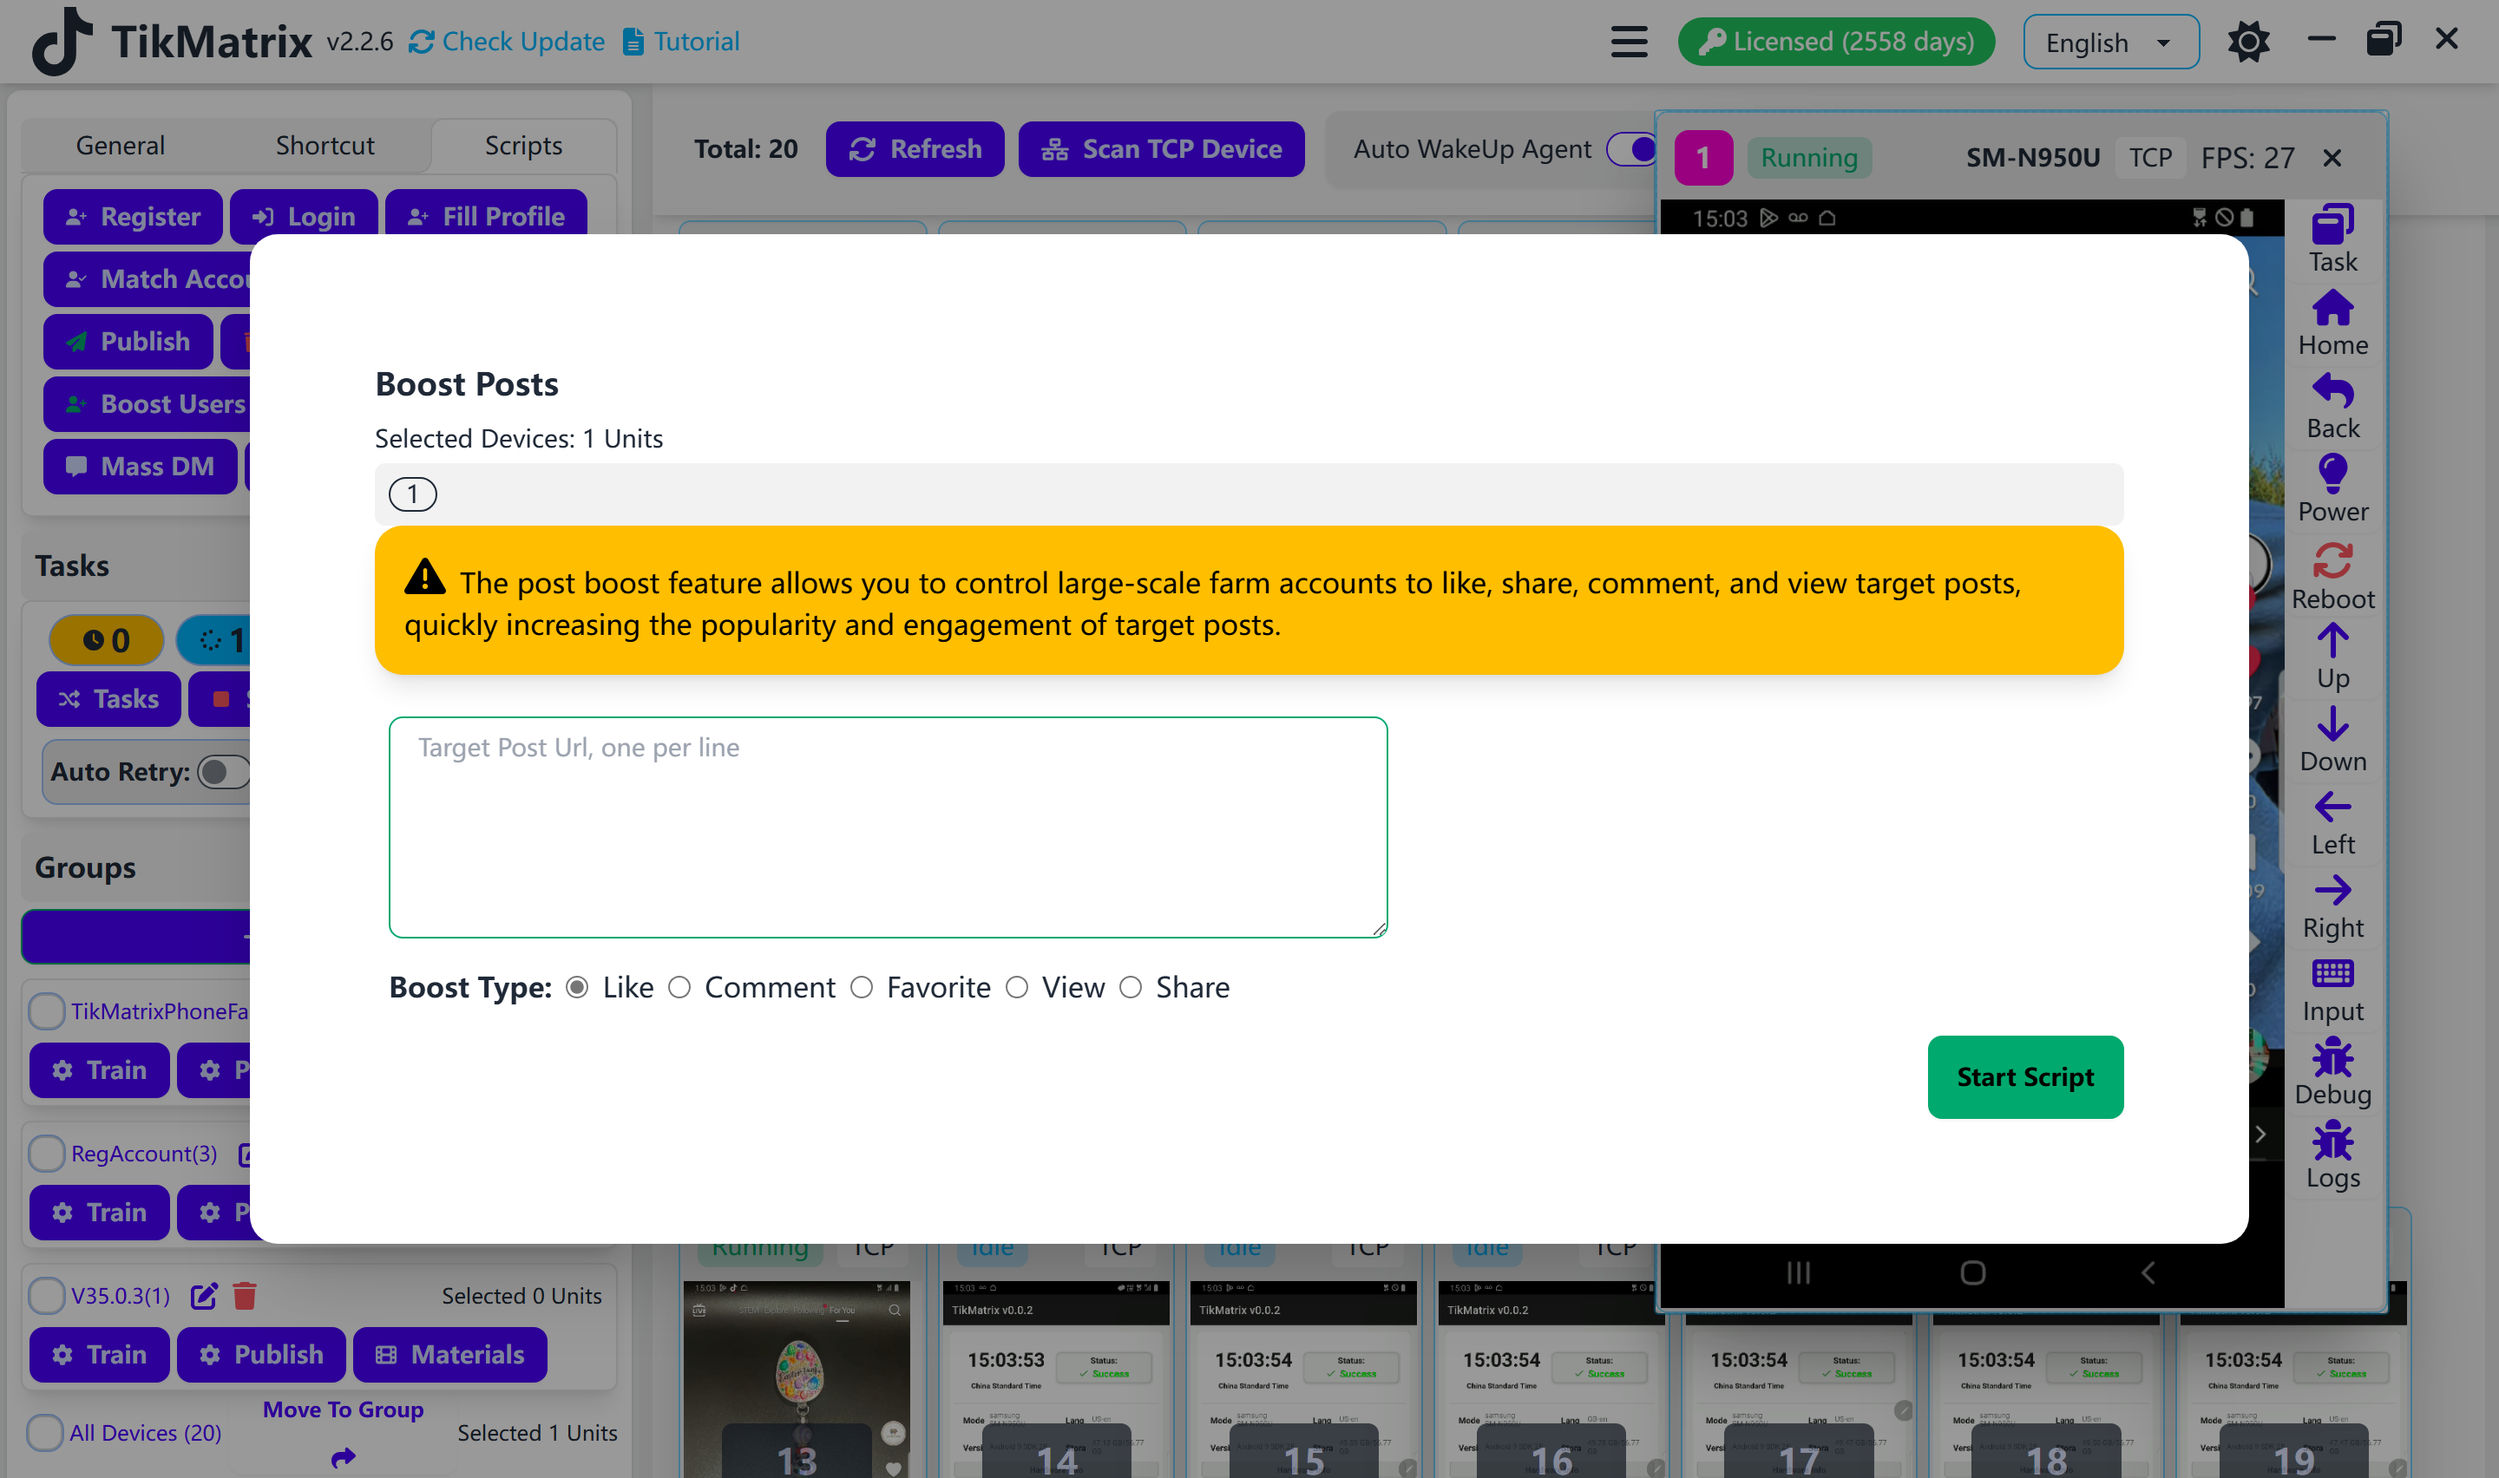
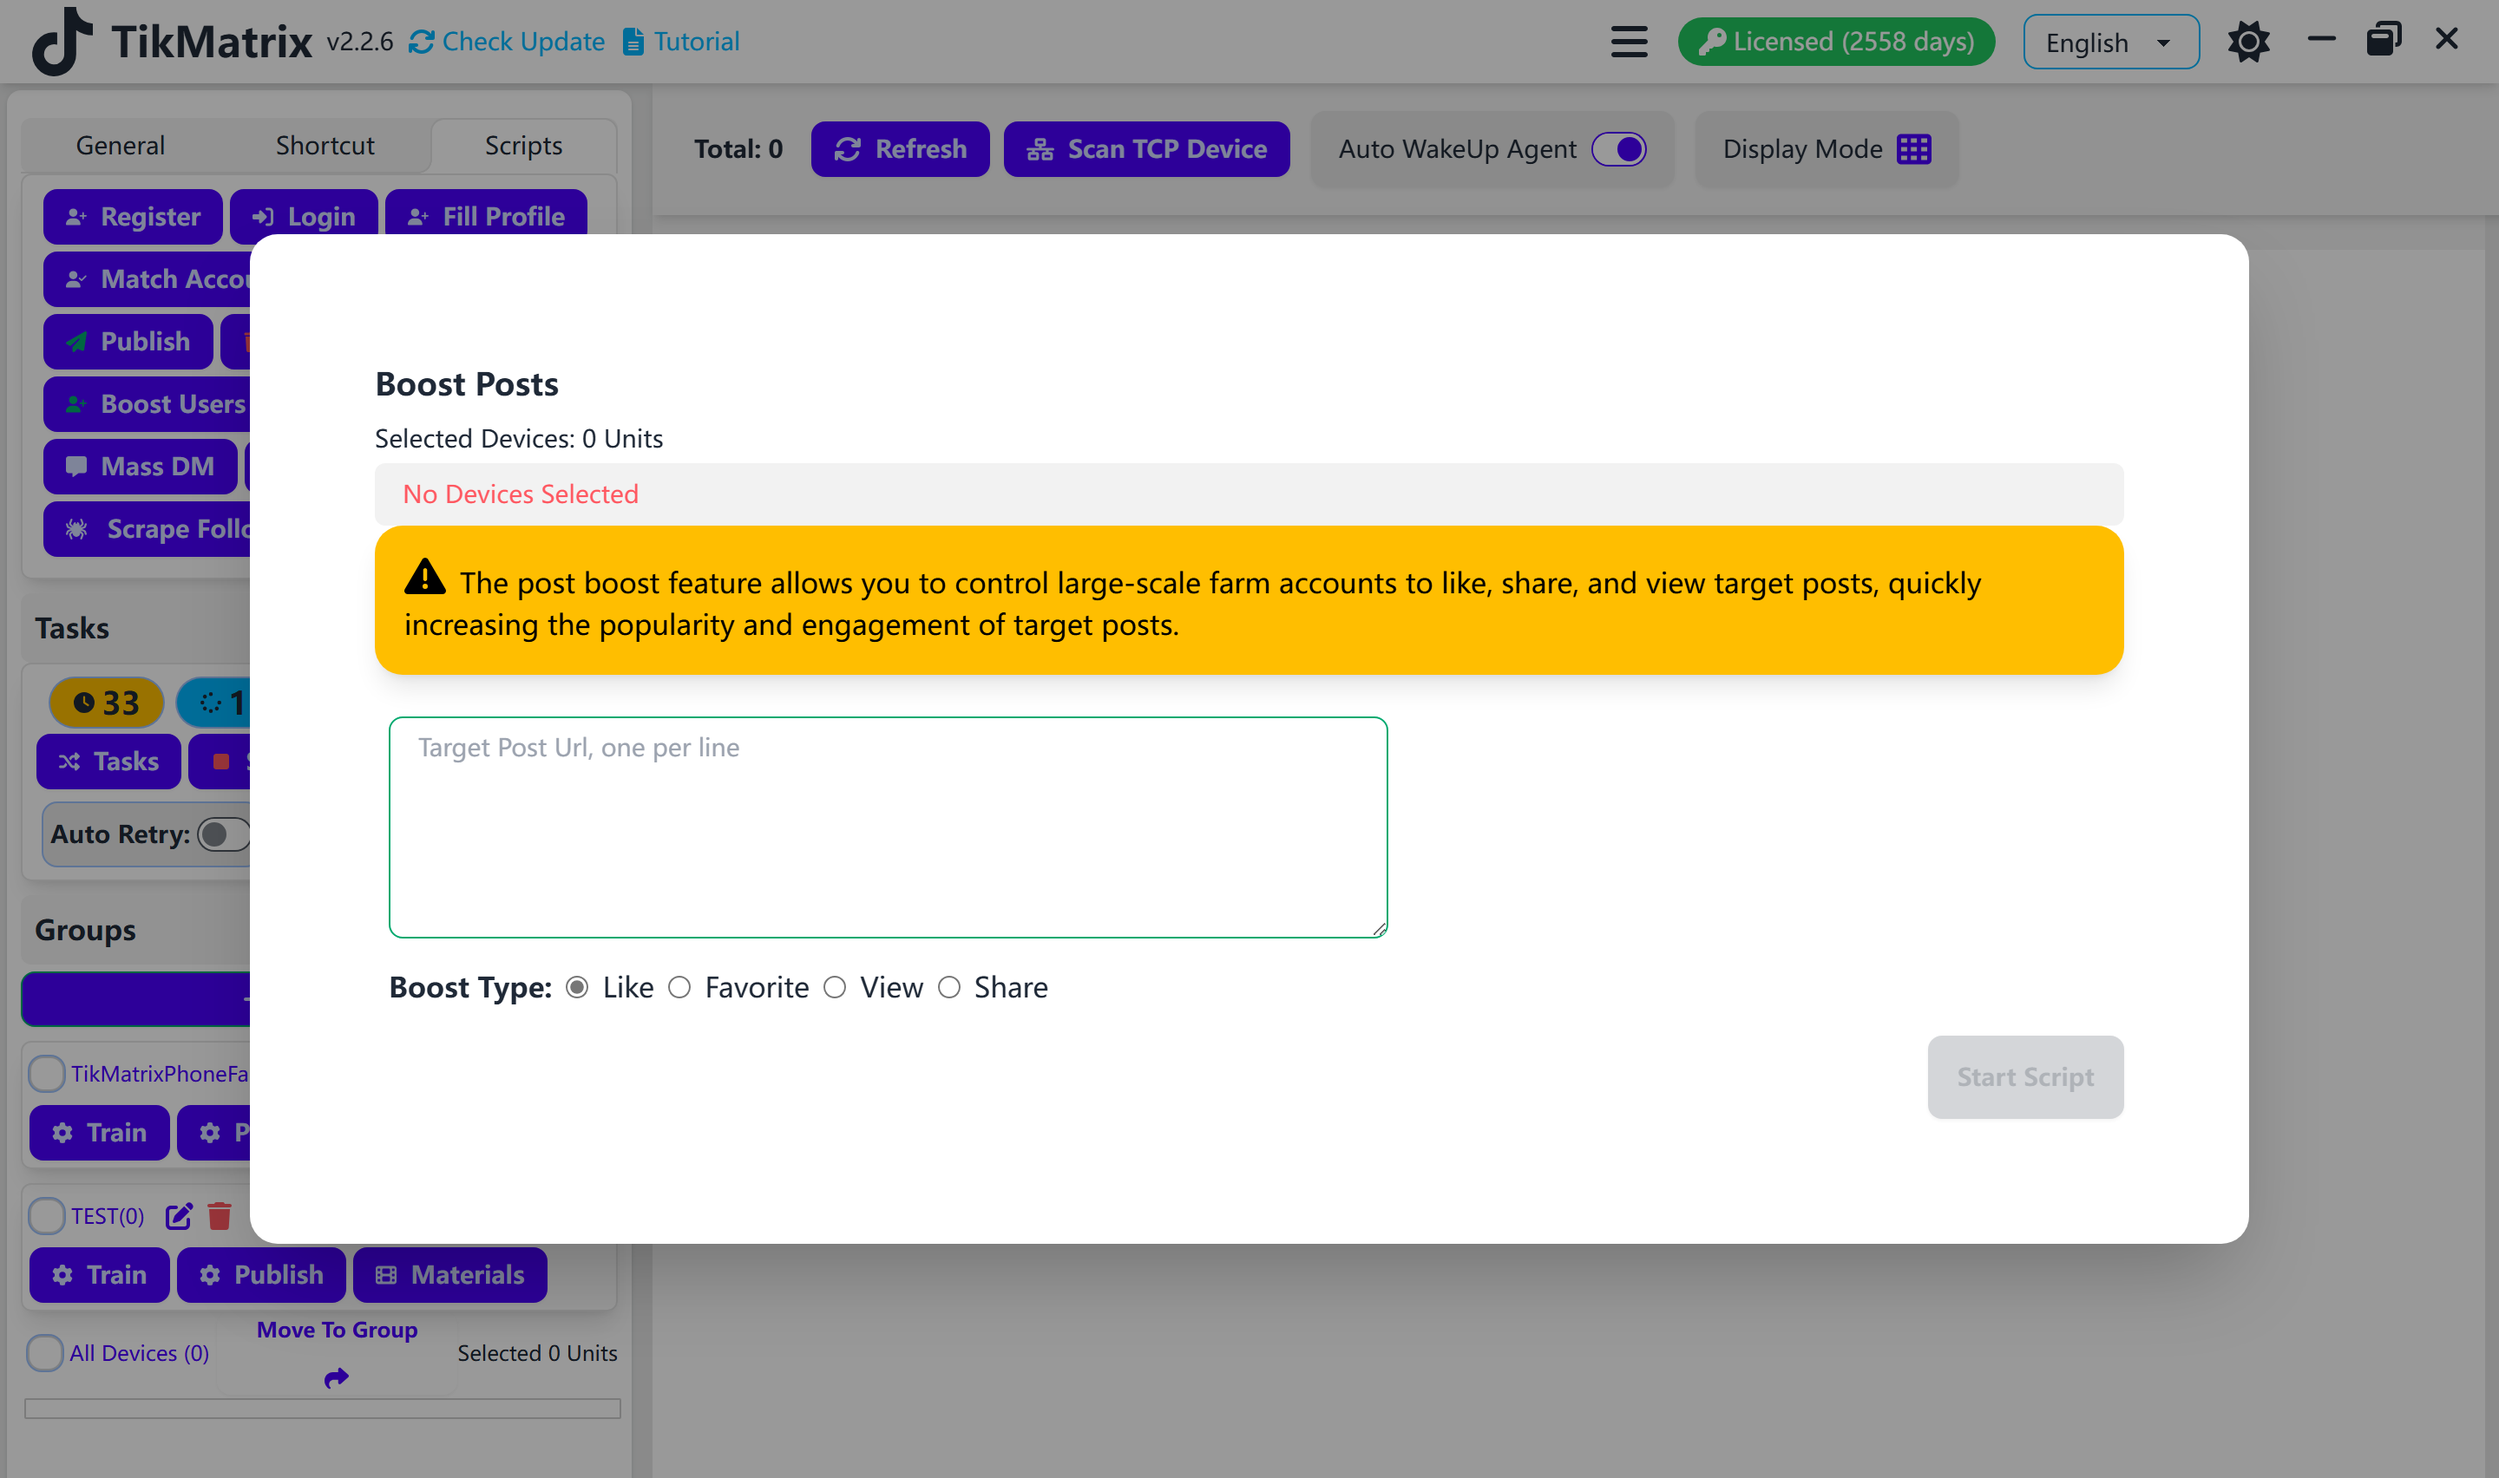
Remove Batch DM documentation and image, and update Boost Posts documentation to reflect changes in functionality.

diff --git a/docs/tutorial-scripts/9.mass-dm.md b/docs/tutorial-scripts/9.mass-dm.md
@@ -2,15 +2,15 @@
 sidebar_position: 9
 ---
 
-# Batch DM
+# Mass DM
 
-Batch DM script is used to send messages to multiple accounts.
+Mass DM script is used to send messages to multiple accounts.
 
 ## Steps
 
 1. Make sure the accounts are added to the account list.
 2. Make sure the group is created and the device is moved to the group.
-3. Click the `Script` - `Batch DM` button.
+3. Click the `Script` - `Mass DM` button.
 4. Enter the message content.
 5. Select the target accounts file, one account per line.
 6. Select the device to send messages.
@@ -18,8 +18,8 @@ Batch DM script is used to send messages to multiple accounts.
 
 ## Note
 
-* The batch DM script is not 100% successful, you may need retry the failed tasks.
+* The mass DM script is not 100% successful, you may need retry the failed tasks.
 
 ## Screenshot
 
-![Batch DM](../img/batch-dm.png)
+![Mass DM](../img/mass-dm.png)

diff --git a/docs/tutorial-scripts/12.mass-comment.md b/docs/tutorial-scripts/12.mass-comment.md
@@ -1,0 +1,25 @@
+---
+sidebar_position: 12
+---
+
+# Mass Comment
+
+Mass Comment script is used to comment on multiple posts.
+
+## Steps
+
+1. Make sure the accounts are added to the account list.
+2. Make sure the group is created and the device is moved to the group.
+3. Click the `Script` - `Mass Comment` button.
+4. Enter the comment content.
+5. Input the target post URLs, one URL per line.
+6. Select the device to comment.
+7. Click the `Start` button.
+
+## Note
+
+* The mass comment script is not 100% successful, you may need retry the failed tasks.
+
+## Screenshot
+
+![Mass Comment](../img/mass-comment.png)

diff --git a/i18n/zh-Hans/docusaurus-plugin-content-docs/current/tutorial-scripts/12.mass-comment.md b/i18n/zh-Hans/docusaurus-plugin-content-docs/current/tutorial-scripts/12.mass-comment.md
@@ -1,0 +1,25 @@
+---
+sidebar_position: 12
+---
+
+# 批量评论
+
+批量评论脚本用于对多个帖子进行评论。
+
+## 步骤
+
+1. 确保账号已添加到账号列表中。
+2. 确保已创建分组并且设备已移动到该分组。
+3. 点击 `脚本` - `批量评论` 按钮。
+4. 输入评论内容。
+5. 输入目标帖子链接，每行一个链接。
+6. 选择要评论的设备。
+7. 点击 `开始` 按钮。
+
+## 注意事项
+
+* 批量评论脚本不是100%成功的，您可能需要重试失败的任务。
+
+## 截图
+
+![批量评论](../img/mass-comment.png)

diff --git a/i18n/zh-Hans/docusaurus-plugin-content-docs/current/tutorial-scripts/8.boost-posts.md b/i18n/zh-Hans/docusaurus-plugin-content-docs/current/tutorial-scripts/8.boost-posts.md
@@ -13,7 +13,7 @@ sidebar_position: 8
 3. 选择要互动的设备。
 4. 点击 `脚本` - `提升帖子` 按钮。
 5. 输入目标帖子URL，每行一个。
-6. 选择要互动的类型：点赞/评论/分享/收藏/查看。
+6. 选择要互动的类型：点赞/分享/收藏/查看。
 7. 点击 `开始` 按钮开始提升帖子任务。
 
 ## 注意事项

diff --git a/docs/tutorial-scripts/8.boost-posts.md b/docs/tutorial-scripts/8.boost-posts.md
@@ -4,7 +4,7 @@ sidebar_position: 8
 
 # Boost Posts
 
-Boost Posts script is used to boost posts by liking, commenting, sharing, favoriting, and viewing.
+Boost Posts script is used to boost posts by liking, sharing, favoriting, and viewing.
 
 ## Steps
 

diff --git a/i18n/zh-Hans/docusaurus-plugin-content-docs/current/tutorial-scripts/9.mass-dm.md b/i18n/zh-Hans/docusaurus-plugin-content-docs/current/tutorial-scripts/9.mass-dm.md
@@ -22,4 +22,4 @@ sidebar_position: 9
 
 ## 截图
 
-![批量私信](../img/batch-dm.png)
+![批量私信](../img/mass-dm.png)
